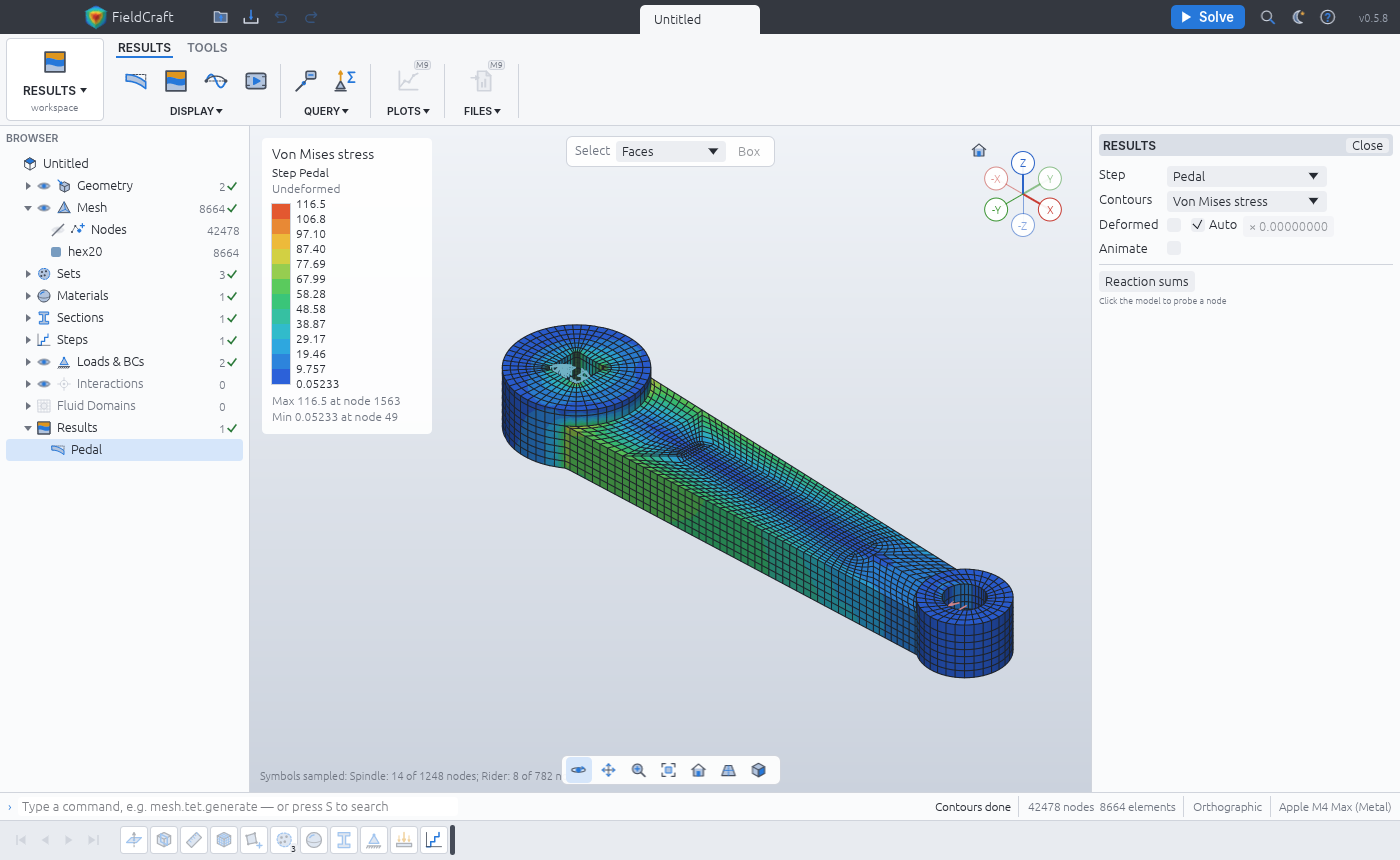
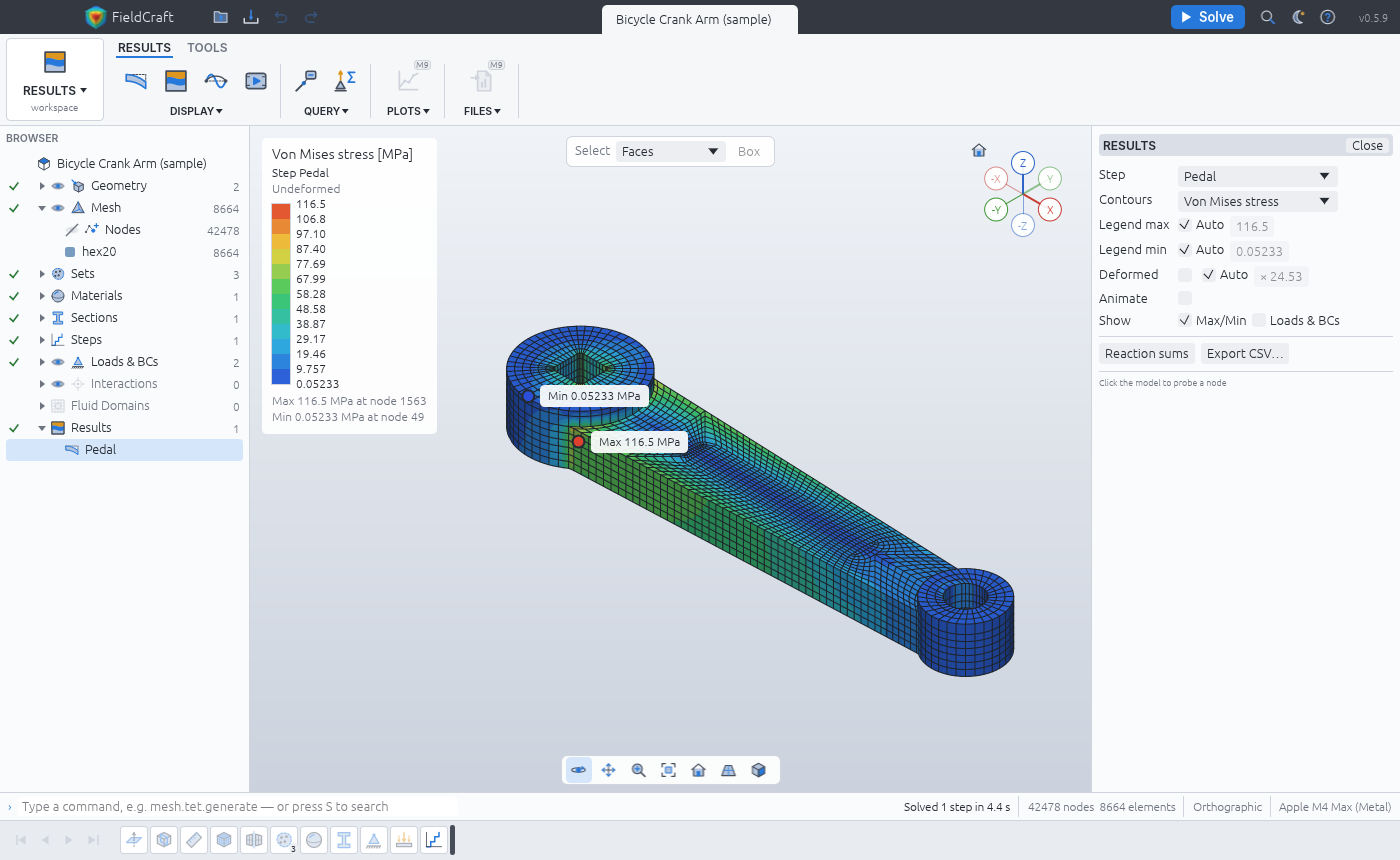
docs: regenerate the gallery captures, Start-card thumbnails and setup-symbols picture for 0.6.0
Window captures (light theme, 1400 x 860) of every sample solved on the current UI; the
thumbnails that were viewport crops are now clean ui.render images like the others; the drop
test's figure at 0.1 ms reads 129 MPa.

Claude-Session: https://claude.ai/code/session_01UhhZMBTviDQxZvwnyP89fo

diff --git a/ATTRIBUTION.md b/ATTRIBUTION.md
@@ -34,12 +34,12 @@ is committed and listed here with its exports.
 | crates/ui-egui/thumbnails/cantilever.png | FieldCraft contributors | Original: the cantilever sample as docs/media/examples/cantilever.png shows it, rendered by FieldCraft (`ui.render`, light theme), cropped to the model and scaled to 320 px wide (ImageMagick, 128-colour palette), the cantilever sample's thumbnail on the Start card | MIT OR Apache-2.0 |
 | crates/ui-egui/thumbnails/impact.png | FieldCraft contributors | Original: the impact sample as docs/media/examples/impact.png shows it, rendered by FieldCraft (`ui.render`, light theme), cropped to the model and scaled to 320 px wide (ImageMagick, 128-colour palette), the impact sample's thumbnail on the Start card | MIT OR Apache-2.0 |
 | crates/ui-egui/thumbnails/parts.png | FieldCraft contributors | Original: the parts sample as docs/media/examples/parts.png shows it, rendered by FieldCraft (`ui.render`, light theme), cropped to the model and scaled to 320 px wide (ImageMagick, 128-colour palette), the parts sample's thumbnail on the Start card | MIT OR Apache-2.0 |
-| crates/ui-egui/thumbnails/bracket-hex.png | FieldCraft contributors | Original: the viewport of docs/media/examples/bracket-hex.png cropped to the model and scaled to 320 px wide (ImageMagick, 128-colour palette), the bracket-hex sample's thumbnail on the Start card | MIT OR Apache-2.0 |
-| crates/ui-egui/thumbnails/crank-arm.png | FieldCraft contributors | Original: the viewport of docs/media/examples/crank-arm.png cropped to the model and scaled to 320 px wide (ImageMagick, 128-colour palette), the crank-arm sample's thumbnail on the Start card | MIT OR Apache-2.0 |
-| crates/ui-egui/thumbnails/crank-mirror.png | FieldCraft contributors | Original: the viewport of docs/media/examples/crank-mirror.png cropped to the model and scaled to 320 px wide (ImageMagick, 128-colour palette), the crank-mirror sample's thumbnail on the Start card | MIT OR Apache-2.0 |
-| crates/ui-egui/thumbnails/drop-test.png | FieldCraft contributors | Original: the viewport of docs/media/examples/drop-test.png cropped to the model and scaled to 320 px wide (ImageMagick, 128-colour palette), the drop-test sample's thumbnail on the Start card | MIT OR Apache-2.0 |
-| crates/ui-egui/thumbnails/heated-bracket.png | FieldCraft contributors | Original: the viewport of docs/media/examples/heated-bracket.png cropped to the model and scaled to 320 px wide (ImageMagick, 128-colour palette), the heated-bracket sample's thumbnail on the Start card | MIT OR Apache-2.0 |
-| crates/ui-egui/thumbnails/rubber-seal.png | FieldCraft contributors | Original: the viewport of docs/media/examples/rubber-seal.png cropped to the model and scaled to 320 px wide (ImageMagick, 128-colour palette), the rubber-seal sample's thumbnail on the Start card | MIT OR Apache-2.0 |
+| crates/ui-egui/thumbnails/bracket-hex.png | FieldCraft contributors | Original: the bracket-hex sample as docs/media/examples/bracket-hex.png shows it, rendered by FieldCraft (`ui.render`, light theme), cropped to the model and scaled to 320 px wide (ImageMagick, 128-colour palette), the bracket-hex sample's thumbnail on the Start card | MIT OR Apache-2.0 |
+| crates/ui-egui/thumbnails/crank-arm.png | FieldCraft contributors | Original: the crank-arm sample as docs/media/examples/crank-arm.png shows it, rendered by FieldCraft (`ui.render`, light theme), cropped to the model and scaled to 320 px wide (ImageMagick, 128-colour palette), the crank-arm sample's thumbnail on the Start card | MIT OR Apache-2.0 |
+| crates/ui-egui/thumbnails/crank-mirror.png | FieldCraft contributors | Original: the crank-mirror sample as docs/media/examples/crank-mirror.png shows it, rendered by FieldCraft (`ui.render`, light theme), cropped to the model and scaled to 320 px wide (ImageMagick, 128-colour palette), the crank-mirror sample's thumbnail on the Start card | MIT OR Apache-2.0 |
+| crates/ui-egui/thumbnails/drop-test.png | FieldCraft contributors | Original: the drop-test sample as docs/media/examples/drop-test.png shows it, rendered by FieldCraft (`ui.render`, light theme), cropped to the model and scaled to 320 px wide (ImageMagick, 128-colour palette), the drop-test sample's thumbnail on the Start card | MIT OR Apache-2.0 |
+| crates/ui-egui/thumbnails/heated-bracket.png | FieldCraft contributors | Original: the heated-bracket sample as docs/media/examples/heated-bracket.png shows it, rendered by FieldCraft (`ui.render`, light theme), cropped to the model and scaled to 320 px wide (ImageMagick, 128-colour palette), the heated-bracket sample's thumbnail on the Start card | MIT OR Apache-2.0 |
+| crates/ui-egui/thumbnails/rubber-seal.png | FieldCraft contributors | Original: the rubber-seal sample as docs/media/examples/rubber-seal.png shows it, rendered by FieldCraft (`ui.render`, light theme), cropped to the model and scaled to 320 px wide (ImageMagick, 128-colour palette), the rubber-seal sample's thumbnail on the Start card | MIT OR Apache-2.0 |
 | crates/decks/tests/golden/nastran/*.bdf | FieldCraft contributors | Written by our Nastran writer from our own test models (crates/decks/tests/nastran.rs) | MIT OR Apache-2.0 |
 | crates/geometry/tests/designs/hollow-box.solidcraft, crates/geometry/tests/designs/hollow-box-post.solidcraft, crates/geometry/tests/designs/open-tray-post.solidcraft | FieldCraft contributors | Built with `solidcraft-cli run` from the recipes beside them (crates/geometry/tests/designs/*.json) | MIT OR Apache-2.0 |
 | assets/icons/assembly.instance.svg, assets/icons/assembly.instance.vectorcraft | FieldCraft contributors | Original toolbar icon drawn with VectorCraft from `assets/icons/src/assembly.instance.json` (`cargo xtask icons`) | MIT OR Apache-2.0 |

diff --git a/docs/examples.md b/docs/examples.md
@@ -11,7 +11,7 @@ the check given below.
 
 ## Drop test (`drop-test`)
 
-![The bracket at 0.1 ms after striking the tilted floor, von Mises stress up to 123 MPa in the bend](media/examples/drop-test.png)
+![The bracket at 0.1 ms after striking the tilted floor, von Mises stress up to 129 MPa in the bend](media/examples/drop-test.png)
 
 An aluminium L-bracket (60 × 40 mm foot, 50 mm upright, 8 mm thick, R6 fillet) falls 2 m onto a
 rigid floor tilted 15°, so the end of its foot strikes first. Explicit dynamics for 1 ms with
@@ -19,7 +19,7 @@ gravity: 1 911 swept hex8 elements (one-point, stiffness hourglass control), bil
 (yield 240 MPa), the floor a rigid wall. About 8 400 increments, a few seconds.
 
 **Look at:** the frames from the strike (Results ▸ Frame): the compression wave leaves the
-struck corner and the upright's inertia bends the fillet, where von Mises peaks near 120 MPa —
+struck corner and the upright's inertia bends the fillet, where von Mises peaks near 130 MPa —
 below yield, so the drop leaves no permanent set. The energies plot shows the kinetic energy
 turning into vibration with a balance under 0.01 %.
 
@@ -85,7 +85,7 @@ solve.
 **Look at:** Contours ▸ Temperature: the upright stays within a few degrees of the heater and
 the foot falls to 95 °C, a steady balance between conduction and the air. Contours ▸ Von Mises
 shows the stress of the growth the clamps hold back: tens of MPa through the legs, peaking at the
-edges of the clamped bores, where a rigid clamp is a stress singularity (about 1 GPa there, a
+edges of the clamped bores, where a rigid clamp is a stress singularity (about 1.5 GPa there, a
 figure that grows as the mesh is refined: read the stress a little away from the bore).
 
 **Check:** the temperatures lie between the air's and the heater's and fall away from the heater.
